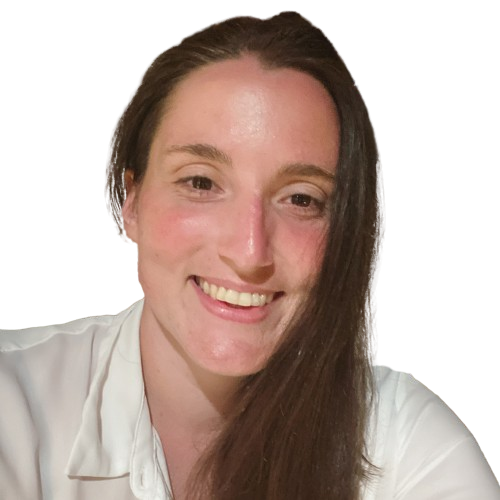
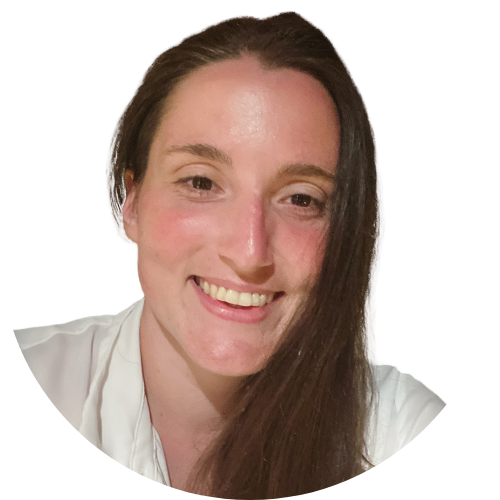
change photo to fit border animation

diff --git a/client/components/Photo.jsx b/client/components/Photo.jsx
@@ -20,30 +20,28 @@ const Photo = () => {
                 transition: { delay: 2.4, duration: 0.4, ease: "easeInOut"},
             }}
             
-            className="w-[300px] h-[300px] xl:w-[500px] xl:h-[500px] mix-blend-lighten rounded-full overflow-hidden">
+            className="w-[298px] h-[298px] xl:w-[498px] xl:h-[498px] mix-blend-lighten absolute">
             <Image 
                 src="/assets/photo.png" 
-                alt="profile picture"
-                layout="responsive"
-                width={500}
-                height={500}
-                className="object-cover"
                 priority
                 quality={100}
+                fill
+                alt="profile picture"
+                className="object-contain"
             />
             </motion.div>
 
             {/* circle on image */}
             <motion.svg className="w-[300px] xl:w-[506px] h-[300px] xl:h-[506px]"
               fill="transparent"
-              viewBox="0 0 506 506"
+              viewBox="0 0 514 510"
               xmlns="http://www.w3.org/2000/svg"
             >
               <motion.circle 
-                cx="253" 
-                cy="253" 
+                cx="255" 
+                cy="255" 
                 r="250" 
-                stroke="#00ff99" 
+                stroke="#ff0090" 
                 strokeWidth="4"
                 strokeLinecap="round"
                 strokeLinejoin="round"
